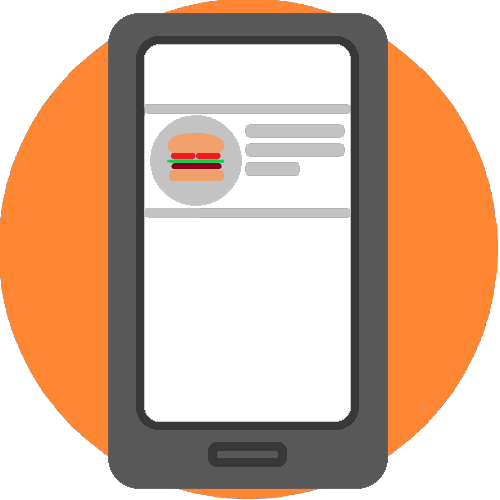
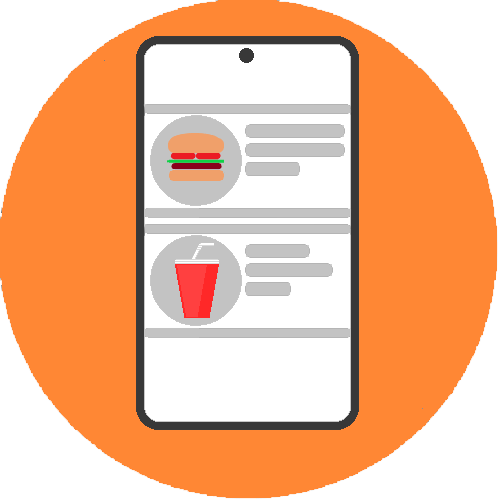
replaced onboarding images

Changed region(s): [[0.21, 0.0, 0.78, 1.0], [0.99, 0.45, 1.0, 0.54]]

diff --git a/README.md b/README.md
@@ -1,16 +1,3 @@
-# your_chief
-
-A new Flutter project.
-
-## Getting Started
-
-This project is a starting point for a Flutter application.
-
-A few resources to get you started if this is your first Flutter project:
-
-- [Lab: Write your first Flutter app](https://flutter.dev/docs/get-started/codelab)
-- [Cookbook: Useful Flutter samples](https://flutter.dev/docs/cookbook)
-
-For help getting started with Flutter, view our
-[online documentation](https://flutter.dev/docs), which offers tutorials,
-samples, guidance on mobile development, and a full API reference.
+# your_chef
+![alt](assets/images/logo.png)
+## A food ordering and delivery app
